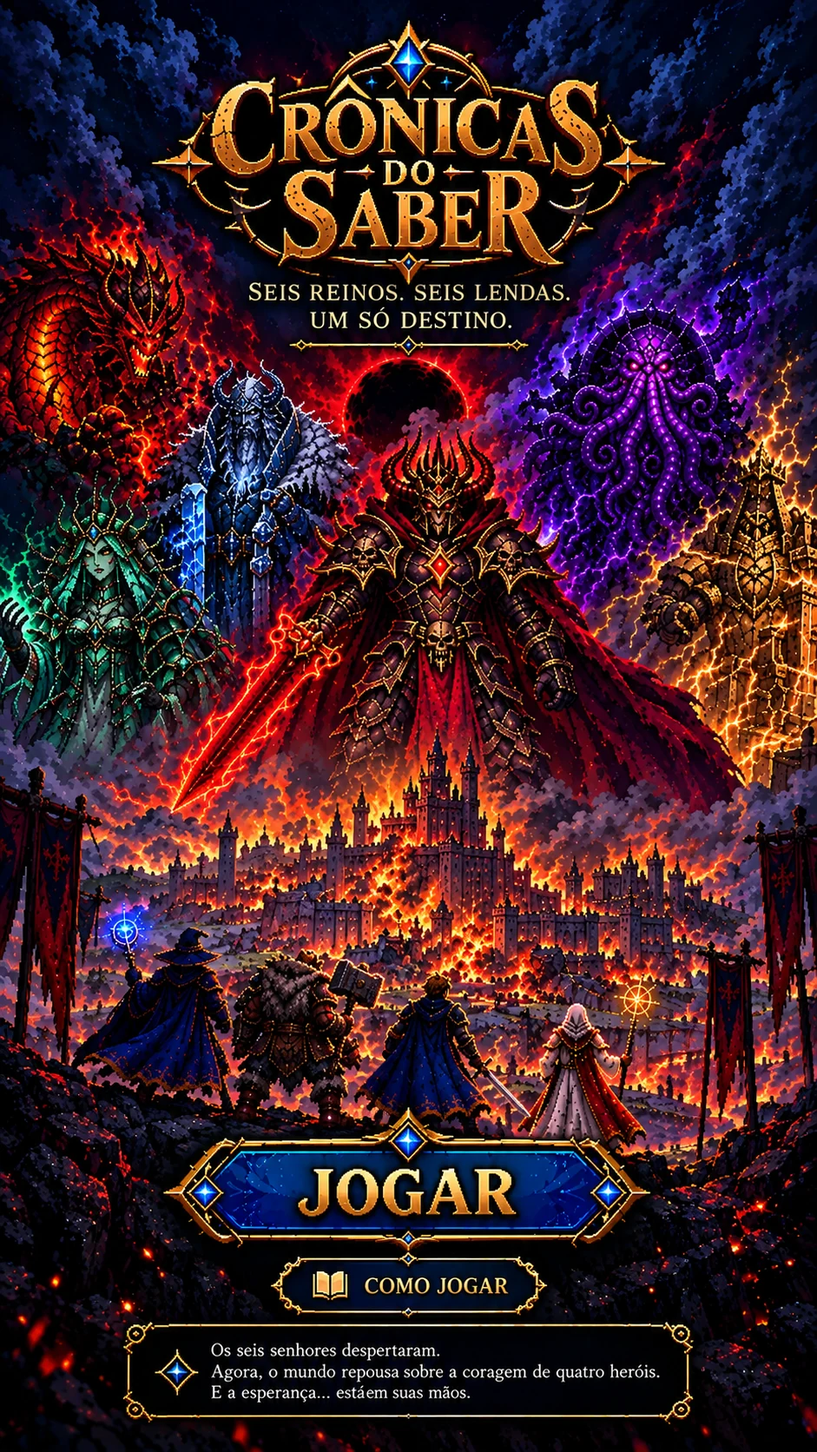
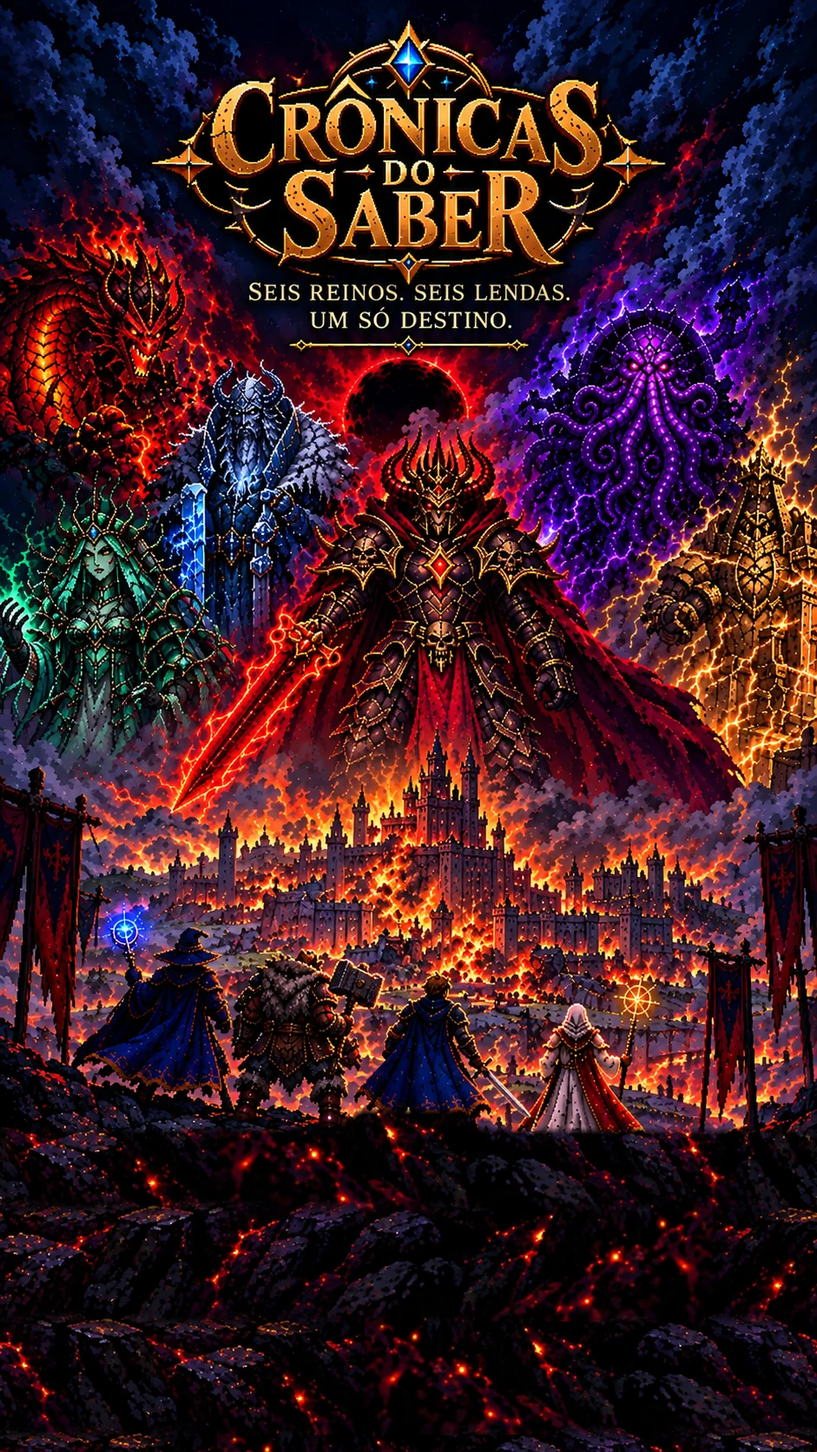
v222: capa translucida, botoes movidos para a capa, nova transicao
Claude-Session: https://claude.ai/code/session_01YFC38PcyDKAfPNhJ7r1cKG

Changed region(s): [[0.0, 0.7464, 1.0, 1.0]]

diff --git a/sw.js b/sw.js
@@ -1,4 +1,4 @@
-const CACHE='bd1-rpg-v221';
+const CACHE='bd1-rpg-v222';
 const ASSETS=['./','./index.html','./game.html','./lobby.js','./bag_panel.png','./bag_panel2.png','./shop_sign.png','./bag_button.png','./menu_meta.js','./menu_assassin.png','./menu_mage.png','./menu_knight.png','./menu_tank.png','./menu_elem.png','./menu_elemdef.png', './icon_chip_flame.png','./ui_cs_blue.png','./ui_cs_purple.png','./ui_cs_grey.png','./ui_cs_green.png','./ui_cs_red.png','./ui_cs_gold.png','./ui_chip_blue.png','./ui_chip_green.png','./icon_chip_hourglass.png','./icon_chip_hourglass_red.png', './ui_chip_purple.png', './ui_chip_grey.png', './icon_chip_sword.png', './icon_chip_demon.png', './icon_chip_normal.png', './icon_chip_elem.png', './menu_target.png','./ui_box.png','./ui_chip.png','./ui_chip_hi.png','./ui_chip_red.png','./tp_mage.png','./tp_knight.png','./tp_tank.png','./tp_assassin.png','./icon_tipo_sword.png','./lobby.css','./select_plate.webp','./tip_frame.png','./enter_panel.png','./enter_btn.png','./enter_btn_on.png','./enter_btn_off.png','./pick_btn_on.png','./pick_btn_off.png','./plaque_cut.png','./char_mage.webp','./char_knight.webp','./char_tank.webp','./char_assassin.webp','./panel_mage.webp','./panel_knight.webp','./panel_tank.webp','./panel_assassin.webp','./style.css','./app.js','./anim.js','./mage.js','./cleric.js','./tank.js','./knight.js','./boss.js','./boss/meta.json','./boss/B_1.png','./boss/B_2.png','./boss/B_3.png','./boss/B_4.png','./boss/B_5.png','./boss/B_6.png','./boss/B_7.png','./boss/B_8.png','./boss/B_9.png','./boss/B_10.png','./boss/B_11.png','./boss/B_12.png','./boss/goblin.png','./fxsoft.js','./ambient.js','./paper.js','./fonts/openc.woff2','./fonts/opencl.woff2','./fonts/opend.woff2','./fonts/pixelify-sans-latin-500-normal.woff2','./fonts/pixelify-sans-latin-700-normal.woff2','./knight/K1_1.png','./knight/K1_10.png','./knight/K1_11.png','./knight/K1_13.png','./knight/K1_14.png','./knight/K1_15.png','./knight/K1_19.png','./knight/K1_2.png','./knight/K1_20.png','./knight/K1_21.png','./knight/K1_22.png','./knight/K1_23.png','./knight/K1_24.png','./knight/K1_25.png','./knight/K1_26.png','./knight/K1_27.png','./knight/K1_28.png','./knight/K1_29.png','./knight/K1_30.png','./knight/K1_31.png','./knight/K1_32.png','./knight/K1_35.png','./knight/K1_37.png','./knight/K1_4.png','./knight/K1_41.png','./knight/K1_42.png','./knight/K1_44.png','./knight/K1_45.png','./knight/K1_46.png','./knight/K1_49.png','./knight/K1_5.png','./knight/K1_6.png','./knight/K1_7.png','./knight/K1_8.png','./knight/K1_9.png','./knight/K2_10.png','./knight/K2_11.png','./knight/K2_13.png','./knight/K2_14.png','./knight/K2_15.png','./knight/K2_16.png','./knight/K2_17.png','./knight/K2_18.png','./knight/K2_19.png','./knight/K2_2.png','./knight/K2_20.png','./knight/K2_21.png','./knight/K2_22.png','./knight/K2_23.png','./knight/K2_24.png','./knight/K2_25.png','./knight/K2_26.png','./knight/K2_28.png','./knight/K2_29.png','./knight/K2_3.png','./knight/K2_30.png','./knight/K2_32.png','./knight/K2_33.png','./knight/K2_34.png','./knight/K2_35.png','./knight/K2_37.png','./knight/K2_38.png','./knight/K2_39.png','./knight/K2_4.png','./knight/K2_41.png','./knight/K2_42.png','./knight/K2_43.png','./knight/K2_44.png','./knight/K2_45.png','./knight/K2_46.png','./knight/K2_5.png','./knight/K2_6.png','./knight/K2_7.png','./knight/K2_8.png','./knight/K2_9.png','./knight/K3_1.png','./knight/K3_10.png','./knight/K3_11.png','./knight/K3_12.png','./knight/K3_13.png','./knight/K3_14.png','./knight/K3_15.png','./knight/K3_16.png','./knight/K3_17.png','./knight/K3_18.png','./knight/K3_2.png','./knight/K3_20.png','./knight/K3_21.png','./knight/K3_22.png','./knight/K3_23.png','./knight/K3_24.png','./knight/K3_25.png','./knight/K3_26.png','./knight/K3_27.png','./knight/K3_28.png','./knight/K3_29.png','./knight/K3_3.png','./knight/K3_30.png','./knight/K3_31.png','./knight/K3_32.png','./knight/K3_33.png','./knight/K3_34.png','./knight/K3_35.png','./knight/K3_36.png','./knight/K3_37.png','./knight/K3_38.png','./knight/K3_39.png','./knight/K3_4.png','./knight/K3_40.png','./knight/K3_41.png','./knight/K3_42.png','./knight/K3_43.png','./knight/K3_44.png','./knight/K3_45.png','./knight/K3_46.png','./knight/K3_47.png','./knight/K3_48.png','./knight/K3_5.png','./knight/K3_6.png','./knight/K3_7.png','./knight/K3_8.png','./knight/K3_9.png','./knight/fx_ice.png','./knight/fx_rocksA.png','./knight/fx_rock1.png','./knight/fx_rock2.png','./knight/fx_rock3.png','./knight/fx_rock4.png','./knight/fx_slash.png','./knight/meta.json','./clr/at1.png','./clr/at2.png','./clr/at3.png','./clr/bg1.png','./clr/bg2.png','./clr/bg3.png','./clr/bg4.png','./clr/bp1.png','./clr/bp2.png','./clr/bp3.png','./clr/br1.png','./clr/br2.png','./clr/br3.png','./clr/br4.png','./clr/br5.png','./clr/br6.png','./clr/bt1.png','./clr/bt2.png','./clr/bt3.png','./clr/bt4.png','./clr/d1.png','./clr/d2.png','./clr/d3.png','./clr/d4.png','./clr/dg1.png','./clr/dg2.png','./clr/dg3.png','./clr/dn1.png','./clr/dn2.png','./clr/dn3.png','./clr/ds1.png','./clr/ex1.png','./clr/fx_aura.png','./clr/fx_burst.png','./clr/fx_cross1.png','./clr/fx_lotus.png','./clr/fx_pillar.png','./clr/fx_pillar2.png','./clr/fx_ring1.png','./clr/fx_ring2.png','./clr/fx_ring3.png','./clr/fx_star1.png','./clr/fx_star2.png','./clr/fx_star3.png','./clr/fx_star4.png','./clr/fx_streak1.png','./clr/fx_streak2.png','./clr/fx_streak3.png','./clr/fx_sunstar.png','./clr/hat1.png','./clr/hat2.png','./clr/idle1.png','./clr/meta.json','./clr/pr1.png','./clr/pr2.png','./clr/stf.png','./clr/ult1.png','./clr/ult2.png','./clr/v1.png','./clr/v2.png','./mage3/air.png','./mage3/atk1.png','./mage3/atk2.png','./mage3/atk3.png','./mage3/bh1.png','./mage3/bh2.png','./mage3/castdef.png','./mage3/defair.png','./mage3/defearth.png','./mage3/deffire.png','./mage3/defmana.png','./mage3/defwater.png','./mage3/dodge1.png','./mage3/dodge2.png','./mage3/dodge3.png','./mage3/dodge4.png','./mage3/earth.png','./mage3/fire.png','./mage3/fx_air_swirl.png','./mage3/fx_bh_big.png','./mage3/fx_bh_big2.png','./mage3/fx_bh_small.png','./mage3/fx_bh_spikes.png','./mage3/fx_bolt.png','./mage3/fx_comet.png','./mage3/fx_cross.png','./mage3/fx_crystal.png','./mage3/fx_earth_spikes.png','./mage3/fx_fire_fall.png','./mage3/fx_mana_aura.png','./mage3/fx_orb_blue.png','./mage3/fx_orb_orange.png','./mage3/fx_orb_red.png','./mage3/fx_orbb.png','./mage3/fx_ring_floor.png','./mage3/fx_rock.png','./mage3/fx_rocks.png','./mage3/fx_star_big.png','./mage3/fx_star_small.png','./mage3/fx_water_pillar.png','./mage3/fx_whirl.png','./mage3/idle1.png','./mage3/idle2.png','./mage3/idle3.png','./mage3/idle4.png','./mage3/meta.json','./mage3/spin1.png','./mage3/spinwide.png','./mage3/stars.png','./mage3/swingf.png','./mage3/swingl.png','./mage3/swingr.png','./mage3/water.png','./anim/manifest.json','./spr_mage.webp','./spr_knight.webp','./spr_tank.webp','./spr_assassin.webp','./spr_boss.webp','./skel/skel_face.png','./intro.js','./map.html','./fog.css','./fog.js','./fog/top.webp','./fog/bot.webp','./map.css','./map.js','./quotes.js','./hud.js','./map/ui_title.webp','./map/ui_compass.webp','./map/ui_legend.webp','./map/ui_quote.webp','./mapfx.js','./map/water.png','./map/base.webp','./map/meta.json','./map/ic_done.webp','./map/ic_next.webp','./map/ic_lock.webp','./map/halo0_blue.webp','./map/halo1_green.webp','./map/gray0.webp','./map/gray1.webp','./map/gray2.webp','./map/gray3.webp','./map/gray4.webp','./map/gray5.webp','./intro/throne_close.webp','./intro/throne_far.webp','./game_clean.png','./game_nohud.png','./hud_mage.png','./hud_knight.png','./hud_tank.png','./hud_assassin.png','./question_panel.png','./icon_attack.png','./icon_coin.png','./manifest.webmanifest','./potion_hp.png','./potion_hp_s.png','./potion_hp_l.png','./potion_mana_s.png','./potion_mana_l.png','./potion_mana.png','./btn_wood.png','./btn_dark.png','./btn_gold.png','./editor.html','./perguntas.json','./chest_f0.png','./chest_f1.png','./chest_f2.png','./chest_f3.png','./item_amulet.png','./item_blade.png','./item_dice.png','./item_elixir.png','./item_helm.png','./item_herb.png','./item_hourglass.png','./item_iron_shield.png','./item_lens.png','./item_lightbomb.png','./item_luckycoin.png','./item_phoenix.png','./item_powder.png','./cover.html','./cover.css','./cover.js','./rebuild.js','./cover_bg.webp','./item_scroll.png','./item_watch_s.png','./item_watch_l.png','./item_smokebomb.png','./item_tonic.png','./tank/a_bub.png','./tank/a_cr.png','./tank/a_dust.png','./tank/a_hh.png','./tank/a_i1.png','./tank/a_i2.png','./tank/a_lo.png','./tank/a_rd.png','./tank/a_rl1.png','./tank/a_rl2.png','./tank/a_s1.png','./tank/a_s2.png','./tank/a_sw.png','./tank/a_swl.png','./tank/d_a1.png','./tank/d_a2.png','./tank/d_a3.png','./tank/d_a4.png','./tank/d_e1.png','./tank/d_e2.png','./tank/d_e3.png','./tank/d_e4.png','./tank/d_f1.png','./tank/d_f2.png','./tank/d_f3.png','./tank/d_h1.png','./tank/d_h2.png','./tank/d_h3.png','./tank/d_h4.png','./tank/d_i1.png','./tank/d_i2.png','./tank/d_i3.png','./tank/d_m1.png','./tank/d_m2.png','./tank/d_m3.png','./tank/d_m4.png','./tank/d_p1.png','./tank/d_p3.png','./tank/d_u1.png','./tank/d_u2.png','./tank/fx_bring.png','./tank/fx_bspike.png','./tank/fx_earth.png','./tank/fx_rockburst.png','./tank/meta.json','./tank/n1.png','./tank/n2.png','./tank/n3.png','./tank/p1.png','./tank/tA.png','./tank/tB.png','./tank/tC.png','./tank/v1.png','./tank/v2.png','./tank/v3.png','./tank/v4.png'];
 // Tudo em cache (abre instantâneo, até offline). Em segundo plano o SW confere a rede (requisição condicional, barata);
 // se algum arquivo mudou, atualiza o cache e avisa a página, que recarrega sozinha (menu) ou mostra o aviso (jogo).

diff --git a/cover.js b/cover.js
@@ -60,7 +60,7 @@ const smoke = [], embers = [], sparks = [], bolts = [];
 const LOW = innerWidth < 380 || (navigator.hardwareConcurrency && navigator.hardwareConcurrency <= 2);
 const NSM = LOW ? 14 : 26, NEM = LOW ? 50 : 100;
 const newSmoke = (age0) => { const [x, y] = pick(TOWERS); return {x:x + rnd(-14, 14), y:y + rnd(-6, 6), vx:rnd(3, 12), vy:-rnd(12, 26), r:rnd(16, 26), life:rnd(7, 12), age:age0 || 0, a:rnd(.55, 1)}; };
-const newEmber = (age0) => ({x:rnd(110, 840), y:rnd(960, 1290), vx:rnd(-8, 12), vy:-rnd(26, 70), s:rnd(1.4, 3.6), life:rnd(2.6, 6), age:age0 || 0, ph:rnd(0, 6.28), c:pick(['#ffb347', '#ff7a1a', '#ffd86b', '#ff5a2a'])});
+const newEmber = (age0) => { const low = Math.random() < .35; return {x:rnd(60, 880), y:low ? rnd(1320, 1650) : rnd(960, 1290), vx:rnd(-8, 12), vy:-rnd(low ? 14 : 26, low ? 40 : 70), s:rnd(1.4, 3.6), life:rnd(2.6, 6), age:age0 || 0, ph:rnd(0, 6.28), c:pick(['#ffb347', '#ff7a1a', '#ffd86b', '#ff5a2a'])}; };
 for (let i = 0; i < NSM; i++) smoke.push(newSmoke(rnd(0, 10)));
 for (let i = 0; i < NEM; i++) embers.push(newEmber(rnd(0, 5)));
 const ORBS = [[145, 1070, '#9fc8ff'], [735, 1148, '#ffd98a']];
@@ -91,6 +91,17 @@ const frame = now => {
 };
 requestAnimationFrame(frame);
 document.addEventListener('visibilitychange', () => { if (document.hidden) run = false; else if (!run) { run = true; last = performance.now(); requestAnimationFrame(frame); } });
+
+// ---------- atualizar (versão do jogo) ----------
+{ const V = 'v222', b = $('#upd'); b.textContent = '↻ ATUALIZAR · ' + V;
+  b.onclick = async () => { b.disabled = true; b.textContent = 'ATUALIZANDO…';
+    try { if ('serviceWorker' in navigator) { const rs = await navigator.serviceWorker.getRegistrations(); await Promise.all(rs.map(r => r.unregister())); }
+      if (window.caches) { const ks = await caches.keys(); await Promise.all(ks.map(k => caches.delete(k))); }
+      const t = await (await fetch('sw.js', {cache:'reload'})).text(), m = t.match(/const CACHE='([^']+)'/);
+      const fs = [...new Set((t.match(/'\.\/[^']+\.(?:html|js|css|json|webmanifest)'/g) || []).map(s => s.slice(1, -1)))].concat(['./', './sw.js']);
+      await Promise.all(fs.map(f => fetch(f, {cache:'reload'}).catch(() => 0)));
+      b.textContent = 'OK · ' + (m ? m[1].replace('bd1-rpg-', '') : ''); } catch (e) { b.textContent = 'ERRO · TENTE DE NOVO'; }
+    setTimeout(() => location.replace(location.pathname + location.search), 500); }; }
 
 // ---------- mensagens ----------
 const MSGS = [
@@ -126,36 +137,45 @@ $('#prev').onclick = () => go(pi - 1); $('#next').onclick = () => go(pi + 1);
 how.addEventListener('click', e => { if (e.target === how) how.hidden = true; });
 addEventListener('keydown', e => { if (e.key === 'Escape') how.hidden = true; });
 
-// ---------- JOGAR: zoom nos heróis -> a cena vira pixels -> seleção reconstrói ----------
+// ---------- JOGAR: zoom nos heróis -> clarão -> a cena vira cinzas de pixels -> seleção reconstrói ----------
 let busy = false;
 const BS = 14;   // tamanho do "pixel" da dissolução (px da tela)
 $('#play').onclick = async () => {
   if (busy) return; busy = true; try { sessionStorage.setItem('bd1_cover', '1'); } catch (e) {}
   const leave = () => { try { sessionStorage.setItem('bd1_rebuild', '1'); } catch (e) {} location.href = 'index.html' + location.search; };
   if (RM) { cv.classList.add('go'); setTimeout(leave, 300); return; }
-  how.hidden = true; cv.classList.add('go'); boost = 3;
-  const ox = .5, oy = .76, S = 2.7, ZMS = 1250;   // câmera entra no grupo de heróis
-  world.style.animation = 'none'; const t0 = performance.now();
-  const an = world.animate([{transform:'scale(1)', transformOrigin:`${ox * 100}% ${oy * 100}%`}, {transform:`scale(${S})`, transformOrigin:`${ox * 100}% ${oy * 100}%`}], {duration:ZMS, easing:'cubic-bezier(.55,.05,.85,.4)', fill:'forwards'});
+  how.hidden = true; cv.classList.add('go'); boost = 3.2;
+  const ox = .5, oy = .755, S = 3, ZMS = 1700, org = `${ox * 100}% ${oy * 100}%`;
+  const vig = document.createElement('div'), fl = document.createElement('div');
+  vig.style.cssText = 'position:absolute;inset:0;z-index:5;pointer-events:none;background:radial-gradient(ellipse 62% 58% at 50% 75.5%,transparent 25%,rgba(3,0,6,.92) 100%);opacity:0';
+  fl.style.cssText = `position:absolute;left:${ox * 100 - 40}%;top:${oy * 100 - 22}%;width:80%;height:44%;z-index:5;pointer-events:none;mix-blend-mode:screen;background:radial-gradient(ellipse at center,rgba(255,236,170,.95) 0,rgba(255,150,60,.55) 32%,transparent 68%);opacity:0`;
+  cv.appendChild(vig); cv.appendChild(fl);
+  world.style.animation = 'none';
+  const an = world.animate([{transform:'scale(1)', transformOrigin:org}, {transform:`scale(${S})`, transformOrigin:org}], {duration:ZMS, easing:'cubic-bezier(.5,.02,.7,.25)', fill:'forwards'});
+  vig.animate([{opacity:0}, {opacity:1}], {duration:ZMS, easing:'ease-in', fill:'forwards'});
+  fl.animate([{opacity:0, transform:'scale(.4)'}, {opacity:.35, transform:'scale(.8)', offset:.55}, {opacity:1, transform:'scale(1.15)'}], {duration:ZMS, easing:'ease-in', fill:'forwards'});
   await an.finished.catch(() => {});
-  // quadro congelado do zoom final -> blocos
+  // quadro congelado do zoom final (com vinheta e clarão) -> blocos
   const r = cv.getBoundingClientRect(), cw = Math.round(r.width), ch = Math.round(r.height), px = $('#px');
   px.width = cw; px.height = ch; px.style.cssText = `display:block;left:${r.left}px;top:${r.top}px;width:${cw}px;height:${ch}px;image-rendering:pixelated`;
   const snap = document.createElement('canvas'); snap.width = cw; snap.height = ch; const sc = snap.getContext('2d');
   const dx = cw * ox - S * cw * ox, dy = ch * oy - S * ch * oy;
   sc.drawImage($('#art'), dx, dy, cw * S, ch * S); sc.drawImage(fx, dx, dy, cw * S, ch * S);
-  world.style.visibility = 'hidden'; $('#ui').style.visibility = 'hidden';
-  const pc = px.getContext('2d'), cols = Math.ceil(cw / BS), rows = Math.ceil(ch / BS), blocks = [], cx = cw * .5, cy = ch * .7, maxd = Math.hypot(cw, ch);
+  let g = sc.createRadialGradient(cw * ox, ch * oy, cw * .12, cw * ox, ch * oy, cw * .85); g.addColorStop(0, 'rgba(3,0,6,0)'); g.addColorStop(1, 'rgba(3,0,6,.92)'); sc.fillStyle = g; sc.fillRect(0, 0, cw, ch);
+  sc.globalCompositeOperation = 'lighter'; g = sc.createRadialGradient(cw * ox, ch * oy, 0, cw * ox, ch * oy, cw * .5); g.addColorStop(0, 'rgba(255,236,170,.95)'); g.addColorStop(.32, 'rgba(255,150,60,.55)'); g.addColorStop(1, 'rgba(0,0,0,0)'); sc.fillStyle = g; sc.fillRect(0, 0, cw, ch);
+  world.style.visibility = 'hidden'; vig.remove(); fl.remove(); $('#ui').style.visibility = 'hidden';
+  const pc = px.getContext('2d'), cols = Math.ceil(cw / BS), rows = Math.ceil(ch / BS), blocks = [], cx = cw * ox, cy = ch * oy, maxd = Math.hypot(cw, ch) * .75;
   for (let j = 0; j < rows; j++) for (let i = 0; i < cols; i++) { const bx = i * BS, by = j * BS, d = Math.hypot(bx + BS / 2 - cx, by + BS / 2 - cy) / maxd;
-    blocks.push({bx, by, del:d * 1100 + rnd(0, 360), dur:rnd(520, 820), up:rnd(30, 110), sx:rnd(-30, 30), rot:rnd(-1, 1)}); }
+    blocks.push({bx, by, del:d * 1250 + rnd(0, 380), dur:rnd(700, 1150), up:rnd(60, 230), sx:rnd(-120, -20), rot:rnd(-2.4, 2.4), col:pick(['#ffe08a', '#ffb347', '#ff7a1a', '#ff5a2a'])}); }
   const total = Math.max(...blocks.map(b => b.del + b.dur)), T0 = performance.now(); let navigated = false;
   await new Promise(done => { const step = now => { const t = now - T0; pc.clearRect(0, 0, cw, ch);
     blocks.forEach(b => { const p = (t - b.del) / b.dur; if (p >= 1) return; if (p <= 0) { pc.drawImage(snap, b.bx, b.by, BS, BS, b.bx, b.by, BS, BS); return; }
-      const e = p * p, s = 1 - e * .75, x = b.bx + b.sx * e, y = b.by - b.up * e;
-      pc.globalAlpha = (1 - p) * (1 - p); pc.drawImage(snap, b.bx, b.by, BS, BS, x + BS * (1 - s) / 2, y + BS * (1 - s) / 2, BS * s, BS * s);
-      if (p < .35) { pc.globalAlpha = (.35 - p) * 2.2; pc.fillStyle = p < .15 ? '#ffe08a' : '#ff7a1a'; pc.fillRect(x, y, BS * s, BS * s); } });
+      const e = p * p, s = 1 - e * .6, x = b.bx + b.sx * e + Math.sin(p * 7 + b.bx) * 4 * p, y = b.by - b.up * e;
+      pc.save(); pc.translate(x + BS / 2, y + BS / 2); pc.rotate(b.rot * e); pc.globalAlpha = Math.pow(1 - p, 1.4);
+      pc.drawImage(snap, b.bx, b.by, BS, BS, -BS * s / 2, -BS * s / 2, BS * s, BS * s);
+      if (p < .5) { pc.globalAlpha = (.5 - p) * 1.6; pc.fillStyle = p < .18 ? '#fff0b8' : b.col; pc.fillRect(-BS * s / 2, -BS * s / 2, BS * s, BS * s); } pc.restore(); });
     pc.globalAlpha = 1;
-    if (!navigated && t > total - 250) { navigated = true; leave(); }
+    if (!navigated && t > total - 380) { navigated = true; leave(); }
     if (t < total) requestAnimationFrame(step); else done(); }; requestAnimationFrame(step); });
 };
 addEventListener('pageshow', e => { if (e.persisted) location.reload(); });

diff --git a/index.html b/index.html
@@ -13,11 +13,6 @@ if(sessionStorage.getItem('bd1_fog_lobby'))document.documentElement.classList.ad
 <link rel="stylesheet" href="lobby.css">
 <link rel="stylesheet" href="fog.css">
 <title>Selecione sua classe</title>
-<style>.upd-btn{position:fixed;z-index:45;right:max(10px,env(safe-area-inset-right));top:max(10px,env(safe-area-inset-top));font:bold 11px/1 OpenC,OpenCl,OpenD,'Pixelify Sans',monospace;letter-spacing:.06em;color:#ffd978;background:none;border:solid transparent;border-width:9px;border-image:url(ui_chip.png) 6 fill/9px stretch;image-rendering:pixelated;padding:3px 7px;cursor:pointer;transition:opacity .9s ease}
-.upd-btn:disabled{opacity:.6}.upd-btn:active{border-image-source:url(ui_chip_hi.png)}
-.fogin .upd-btn{opacity:0;pointer-events:none}
-body.leaving .upd-btn,body.leaving .ed-link,body.leaving .test-toggle{opacity:0!important;pointer-events:none;transition:opacity .45s ease!important}
-</style>
 </head>
 <body>
 <div class="fog top" id="fogT"></div><div class="fog bot" id="fogB"></div>
@@ -28,8 +23,6 @@ body.leaving .upd-btn,body.leaving .ed-link,body.leaving .test-toggle{opacity:0!
   <div id="msg" class="msg" role="status" aria-live="polite"></div>
   <button id="confirm" class="confirm" type="button" disabled>ESCOLHA UMA CLASSE</button>
 </div>
-<button id="upd-btn" class="upd-btn" type="button">↻ ATUALIZAR</button>
-<button id="test-toggle" class="test-toggle" type="button"></button>
 <script src="fog.js"></script>
 <script src="lobby.js"></script>
 <script>
@@ -42,7 +35,7 @@ const CARDS=[
   {key:'tank',    cnt:[405,1136,47,28], bg:'#010610', fg:'#f3f5f8'},
   {key:'assassin',cnt:[840,1136,47,28], bg:'#060609', fg:'#faf9f7'}
 ];
-const stage=document.getElementById('stage'), msg=document.getElementById('msg'), confirmBtn=document.getElementById('confirm'), testBtn=document.getElementById('test-toggle');
+const stage=document.getElementById('stage'), msg=document.getElementById('msg'), confirmBtn=document.getElementById('confirm');
 const pc=(v,t)=>(v/t*100)+'%';
 let selected=LOBBY.myGroup();
 const els={};
@@ -88,7 +81,6 @@ function render(){
   confirmBtn.disabled=!selected;
   confirmBtn.style.setProperty('--c',selected?LOBBY_GROUPS[selected].color:'#6e6580');
   confirmBtn.textContent=selected?`CONFIRMAR: ${LOBBY_GROUPS[selected].name}`:'ESCOLHA UMA CLASSE';
-  testBtn.textContent=LOBBY.testMode?'MODO TESTE: LIGADO (toque para desligar)':'MODO TESTE: DESLIGADO';
 }
 confirmBtn.onclick=()=>{
   if(!selected)return;
@@ -96,16 +88,6 @@ confirmBtn.onclick=()=>{
   if(!r.ok){say(r.reason==='full'?'Essa classe acabou de lotar.':'Classe inválida.');selected=null;render();return}
   document.body.classList.add('leaving');sessionStorage.setItem('bd1_fog','1');setTimeout(()=>{Fog.close(document.getElementById('stage'),1000).then(()=>{location.href='map.html'+location.search})},520);   /* os botões somem antes das nuvens fecharem */
 };
-(()=>{const V='v221',b=document.getElementById('upd-btn');b.textContent='↻ ATUALIZAR · '+V;
-b.onclick=async function(){b.disabled=true;b.textContent='ATUALIZANDO…';
-try{if('serviceWorker' in navigator){const rs=await navigator.serviceWorker.getRegistrations();await Promise.all(rs.map(r=>r.unregister()))}
-if(window.caches){const ks=await caches.keys();await Promise.all(ks.map(k=>caches.delete(k)))}
-const t=await (await fetch('sw.js',{cache:'reload'})).text();const m=t.match(/const CACHE='([^']+)'/);
-const fs=[...new Set((t.match(/'\.\/[^']+\.(?:html|js|css|json|webmanifest)'/g)||[]).map(s=>s.slice(1,-1)))].concat(['./','./sw.js']);
-await Promise.all(fs.map(f=>fetch(f,{cache:'reload'}).catch(()=>0)));
-b.textContent='OK · '+(m?m[1].replace('bd1-rpg-',''):'')}catch(e){b.textContent='ERRO · TENTE DE NOVO'}
-setTimeout(()=>location.replace(location.pathname+location.search),500)}})();
-testBtn.onclick=()=>{LOBBY.setTest(!LOBBY.testMode);location.href='index.html'};
 render();
 const _st=document.getElementById('stage');
 if(sessionStorage.getItem('bd1_fog_lobby')){sessionStorage.removeItem('bd1_fog_lobby');setTimeout(()=>Fog.open(_st,2600),700)}else Fog.rest(_st);
@@ -114,8 +96,6 @@ addEventListener('resize',()=>{if(!document.documentElement.classList.contains('
 window.addEventListener('storage',render);
 if('serviceWorker' in navigator){navigator.serviceWorker.addEventListener('message',e=>{if(e.data&&e.data.type==='updated')location.reload()});window.addEventListener('load',()=>navigator.serviceWorker.register('./sw.js',{updateViaCache:'none'}))}
 </script>
-<a class="ed-link" href="editor.html">EDITOR DE PERGUNTAS</a>
-<style>.ed-link{position:fixed;z-index:44;left:50%;transform:translateX(-50%);bottom:max(10px,env(safe-area-inset-bottom));font:bold 11px/1 OpenC,OpenCl,OpenD,'Pixelify Sans',monospace;letter-spacing:.08em;color:#e0c98a;background:none;border:solid transparent;border-width:9px;border-image:url(ui_chip.png) 6 fill/9px stretch;image-rendering:pixelated;padding:3px 9px;text-decoration:none}.ed-link:active{border-image-source:url(ui_chip_hi.png)}.fogin .ed-link{opacity:0;pointer-events:none}</style>
 <script src="rebuild.js"></script>
 </body>
 </html>

diff --git a/rebuild.js b/rebuild.js
@@ -1,21 +1,21 @@
-// Entrada na seleção de classe vinda da capa: a tela escura se desfaz em pixels (de dentro para fora), reconstruindo o menu
+// Entrada na seleção de classe vinda da capa: o menu se reconstrói de baixo para cima (dos heróis), com brasas na frente da onda
 (() => {
 const de = document.documentElement;
 let on = false; try { on = !!sessionStorage.getItem('bd1_rebuild'); sessionStorage.removeItem('bd1_rebuild'); } catch (e) {}
-if (!on) { de.classList.remove('rb'); return; }
-if (matchMedia('(prefers-reduced-motion: reduce)').matches) { de.classList.remove('rb'); return; }
+if (!on || matchMedia('(prefers-reduced-motion: reduce)').matches) { de.classList.remove('rb'); return; }
+const st = document.createElement('style'); st.textContent = '@keyframes rbIn{from{transform:scale(1.08);filter:brightness(.35) saturate(1.5)}60%{filter:brightness(.9)}to{transform:none;filter:none}}#stage,#above{animation:rbIn 2.1s cubic-bezier(.2,.6,.2,1) both;transform-origin:50% 78%}'; document.head.appendChild(st);
 const BS = 14, vw = innerWidth, vh = innerHeight, c = document.createElement('canvas'), x = c.getContext('2d');
 c.width = vw; c.height = vh; c.style.cssText = 'position:fixed;left:0;top:0;width:100vw;height:100vh;z-index:9999;pointer-events:none;image-rendering:pixelated';
 document.body.appendChild(c);
-const cols = Math.ceil(vw / BS), rows = Math.ceil(vh / BS), cx = vw / 2, cy = vh * .46, maxd = Math.hypot(vw, vh) / 2, rnd = (a, b) => a + Math.random() * (b - a);
-const blocks = []; for (let j = 0; j < rows; j++) for (let i = 0; i < cols; i++) { const bx = i * BS, by = j * BS, d = Math.hypot(bx + BS / 2 - cx, by + BS / 2 - cy) / maxd; blocks.push({bx, by, del:d * 1000 + rnd(0, 420), dur:rnd(380, 640), j:rnd(-1, 1)}); }
+const cols = Math.ceil(vw / BS), rows = Math.ceil(vh / BS), cx = vw / 2, cy = vh * .78, maxd = Math.hypot(vw, vh) * .8, rnd = (a, b) => a + Math.random() * (b - a);
+const blocks = []; for (let j = 0; j < rows; j++) for (let i = 0; i < cols; i++) { const bx = i * BS, by = j * BS, d = Math.hypot(bx + BS / 2 - cx, (by + BS / 2 - cy) * 1.25) / maxd; blocks.push({bx, by, del:d * 1300 + rnd(0, 380), dur:rnd(420, 760), j:rnd(-1, 1), col:['#ffe08a', '#ffb347', '#ff7a1a', '#c8381e'][Math.floor(rnd(0, 4))]}); }
 const total = Math.max(...blocks.map(b => b.del + b.dur));
 let T0 = 0; const draw = now => { const t = now - T0; x.clearRect(0, 0, vw, vh);
   blocks.forEach(b => { const p = (t - b.del) / b.dur; if (p >= 1) return;
-    if (p <= 0) { x.fillStyle = '#050308'; x.fillRect(b.bx, b.by, BS, BS); return; }
-    const s = 1 - p * p; x.globalAlpha = p < .5 ? .75 : 1 - p * .6; x.fillStyle = p < .25 ? '#ff7a1a' : p < .5 ? '#7a1a2a' : '#050308'; x.fillRect(b.bx + BS * (1 - s) / 2, b.by + BS * (1 - s) / 2 - p * 14 * b.j, BS * s, BS * s); });
-  x.globalAlpha = 1; if (t < total) requestAnimationFrame(draw); else c.remove(); };
-const start = () => { requestAnimationFrame(now => { T0 = now + 250; draw(now); de.classList.remove('rb'); }); };   // o véu escuro some só depois do 1º quadro de blocos
+    if (p <= 0) { x.globalAlpha = 1; x.fillStyle = '#050308'; x.fillRect(b.bx, b.by, BS, BS); return; }
+    const s = 1 - p * p * .9, y = b.by + BS * (1 - s) / 2 - p * 26 * (.4 + b.j * .4); x.globalAlpha = p < .4 ? .95 : 1 - p; x.fillStyle = p < .35 ? b.col : '#050308'; x.fillRect(b.bx + BS * (1 - s) / 2, y, BS * s, BS * s); });
+  x.globalAlpha = 1; if (t < total) requestAnimationFrame(draw); else { c.remove(); st.remove(); } };
+const start = () => { requestAnimationFrame(now => { T0 = now + 150; draw(now); de.classList.remove('rb'); }); };   // o véu escuro some só depois do 1º quadro de blocos
 if (document.readyState === 'complete') setTimeout(start, 120); else addEventListener('load', () => setTimeout(start, 120));
-setTimeout(() => { de.classList.remove('rb'); c.remove(); }, 6000);   // trava de segurança
+setTimeout(() => { de.classList.remove('rb'); c.remove(); st.remove(); }, 7000);   // trava de segurança
 })();

diff --git a/cover.css b/cover.css
@@ -38,9 +38,8 @@ button{outline:none;font:inherit;color:inherit}button:focus,button:focus-visible
 
 /* ===== interface em pixel art ===== */
 #ui{position:absolute;inset:0;pointer-events:none}
-.dock{position:absolute;left:0;right:0;top:76.43%;bottom:0;pointer-events:auto;background:#07030b;transition:transform .55s cubic-bezier(.5,0,.8,.3),opacity .45s ease}
-.dock::before{content:"";position:absolute;left:0;right:0;bottom:100%;height:4.2cqw;background:linear-gradient(to bottom,transparent 0 12.5%,rgba(7,3,11,.14) 12.5% 25%,rgba(7,3,11,.3) 25% 37.5%,rgba(7,3,11,.46) 37.5% 50%,rgba(7,3,11,.62) 50% 62.5%,rgba(7,3,11,.78) 62.5% 75%,rgba(7,3,11,.9) 75% 87.5%,#07030b 87.5%)}
-.dock::after{content:"";position:absolute;inset:0;pointer-events:none;background:radial-gradient(60% 80% at 50% 10%,rgba(60,24,70,.35),transparent 70%),repeating-linear-gradient(0deg,rgba(255,255,255,.015) 0 .5cqw,transparent .5cqw 1cqw)}
+.dock{position:absolute;left:0;right:0;top:76.43%;bottom:0;pointer-events:auto;background:linear-gradient(to bottom,rgba(7,3,11,0) 0,rgba(7,3,11,.34) 16%,rgba(7,3,11,.46) 100%);transition:transform .55s cubic-bezier(.5,0,.8,.3),opacity .45s ease}
+.dock::after{content:"";position:absolute;inset:0;pointer-events:none;background:radial-gradient(60% 80% at 50% 14%,rgba(60,24,70,.22),transparent 70%)}
 .go .dock{transform:translateY(40%);opacity:0;pointer-events:none}
 .dock>*{z-index:1}
 .c-play,.c-how{appearance:none;-webkit-appearance:none;position:absolute;cursor:pointer;border:solid transparent;image-rendering:pixelated;display:flex;align-items:center;justify-content:center;gap:2cqw;font-family:var(--F);font-weight:700;text-align:center;padding:0}
@@ -90,3 +89,9 @@ button{outline:none;font:inherit;color:inherit}button:focus,button:focus-visible
 .chip.close{position:absolute;right:2.4cqw;top:2.4cqw;height:6.4cqw;font-size:2.3cqw;border-width:1.8cqw;border-image-width:1.8cqw}
 #px{position:fixed;z-index:50;pointer-events:none;display:none}
 @media (prefers-reduced-motion:reduce){#world,.fire,.eclipse,.orb,.ban,.gloss,.star,.sword::before,.sword i,.c-play{animation:none!important}}
+
+/* cantos da capa: editor de perguntas e atualizar */
+.corner{position:absolute;top:1.6%;z-index:6;pointer-events:auto;height:6.4cqw;font-size:2.1cqw;border-width:1.7cqw;border-image-width:1.7cqw;white-space:nowrap;transition:opacity .4s ease}
+.corner.l{left:2.4%}.corner.r{right:2.4%}
+.go .corner{opacity:0;pointer-events:none}
+a.chip{display:inline-flex;align-items:center;text-decoration:none}

diff --git a/cover.html b/cover.html
@@ -19,6 +19,8 @@
     <canvas id="fx"></canvas>
   </div>
   <div id="ui">
+    <a class="chip corner l" href="editor.html">EDITOR DE PERGUNTAS</a>
+    <button id="upd" class="chip corner r" type="button">↻ ATUALIZAR</button>
     <div class="dock" id="dock">
       <button id="play" class="c-play" type="button"><span>JOGAR</span></button>
       <button id="how-btn" class="c-how" type="button"><i class="ic-book"></i><span>COMO JOGAR</span></button>

diff --git a/README.md b/README.md
@@ -466,3 +466,4 @@ Ele abre selecao, mapa e batalha em 7 formatos de celular + tablet e confere que
 - v219: dois itens LENDARIOS novos (tempo extra na pergunta): Relogio de Bolso (+5s, 30 moedas) e Relogio Grande (+10s, 50 moedas), icones em pixel art (tools/make_items.py). So valem durante a pergunta e so no proprio grupo (nao podem ser dados a aliados); o +Ns aparece animado dentro da caixa do cronometro. Raridade bem acima dos raros: 2,5% por reposicao da prateleira (raros: 12%) e 2% na arca (raros: 10%). Conferido: o seletor de item nao tem cronometro, entao nao havia relogio duplicado.
 - v220: segurar o dedo num item da mochila abre a mesma ficha do Mercador (nome, categoria, raridade, descricao, afinidade e quantidade); toque rapido continua usando. Item vindo da arca nao aparece mais no papiro: ele surge num clarao, flutua brilhando, voa em arco ate o botao da mochila e estoura em faiscas (so entao aparece no slot). Usar o relogio tambem nao escreve mais no papiro (so a animacao +Ns).
 - v221: CAPA do jogo (cover.html) antes da selecao de classe, uma vez por sessao: arte animada (fogo da cidade, fumaca, brasas, olhos dos seis senhores, brilho na espada do Lorde, orbes dos cajados, bandeiras, raios, eclipse, reflexo no titulo), botoes JOGAR e COMO JOGAR em pixel art, painel Como jogar com 6 paginas, mensagens rotativas. JOGAR faz zoom nos herois, a cena se desfaz em pixels e a selecao se reconstrói (rebuild.js). Sem audio.
+- v222: selecao de classe sem os botoes ATUALIZAR, MODO TESTE e EDITOR DE PERGUNTAS (agora o editor e o ATUALIZAR (com a versao) ficam nos cantos da capa; a versao vive em cover.js). Capa: parte de baixo translucida mostrando o cenario (rochas e brasas redesenhadas sem os botoes pintados na arte). Transicao refeita: zoom nos herois com vinheta e clarao dourado, a cena vira cinzas de pixel que sobem ao vento, e a selecao se reconstroi de baixo para cima com brasas na frente da onda.
